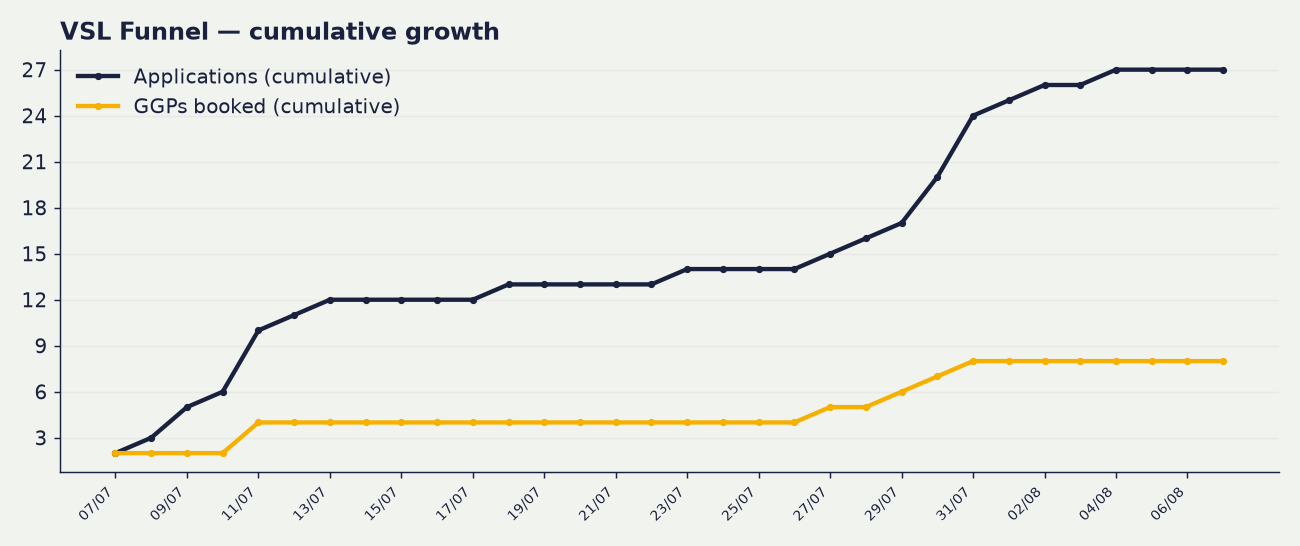
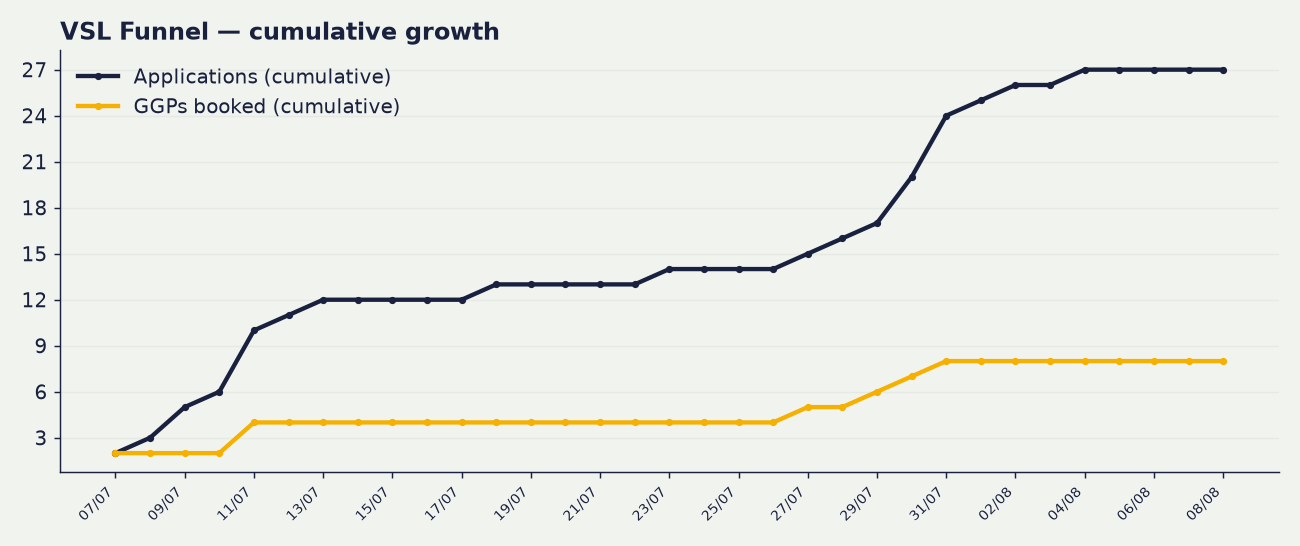
nightly dashboard update 2026-08-08 04:00

diff --git a/content/index.md b/content/index.md
@@ -1,6 +1,6 @@
 # 📈 VSL Funnel Dashboard
 
-_Live from the VSL Applications tracker + Meta. Last updated: 7 Aug 2026, 05:54 BST. Rebuilds nightly._
+_Live from the VSL Applications tracker + Meta. Last updated: 8 Aug 2026, 04:00 BST. Rebuilds nightly._
 
 > Funnel window from 2026-07-07. Attribution = your team's funnel-stage ticks on the Applications tab (the source of truth).
 
@@ -10,8 +10,8 @@ _Live from the VSL Applications tracker + Meta. Last updated: 7 Aug 2026, 05:54 
 
 | Metric | Value |
 |---|---|
-| 💷 Spent | **£1,949.70** |
-| 👀 Opt-ins | **84** |
+| 💷 Spent | **£1,990.64** |
+| 👀 Opt-ins | **85** |
 | 📝 Applications | **40** |
 | 📞 GGPs booked | **10** |
 | ✅ Showed up | **4** |
@@ -21,7 +21,7 @@ _Live from the VSL Applications tracker + Meta. Last updated: 7 Aug 2026, 05:54 
 
 | Step | Rate |
 |---|---|
-| Opt-in → Application | 48% |
+| Opt-in → Application | 47% |
 | Application → GGP booked | 25% |
 | GGP show rate | 40% |
 | Show → Sign | 50% |
@@ -31,15 +31,15 @@ _Live from the VSL Applications tracker + Meta. Last updated: 7 Aug 2026, 05:54 
 
 | Cost | Value |
 |---|---|
-| Cost per application | £49 |
-| Cost per GGP booked | £195 |
-| Cost per show-up | £487 |
-| **Cost per acquisition (CPA)** | **£975** |
+| Cost per application | £50 |
+| Cost per GGP booked | £199 |
+| Cost per show-up | £498 |
+| **Cost per acquisition (CPA)** | **£995** |
 
 ## Ad spend split
 
-- 🔥 Warm: £1,009.25
-- ❄ Cold: £940.45
+- 🔥 Warm: £1,040.15
+- ❄ Cold: £950.49
 
 ---
 
@@ -57,4 +57,4 @@ _Live from the VSL Applications tracker + Meta. Last updated: 7 Aug 2026, 05:54 
 > _Applications + GGP-booked are TRUE daily series (from submission timestamps). Opt-ins have no per-day source in the Opt-ins tab, so opt-ins appear as a total only, not a daily line._
 
 ---
-<!-- Auto-generated by the VSL dashboard nightly pipeline. Do not edit by hand. 7 Aug 2026, 05:54 BST -->
+<!-- Auto-generated by the VSL dashboard nightly pipeline. Do not edit by hand. 8 Aug 2026, 04:00 BST -->
